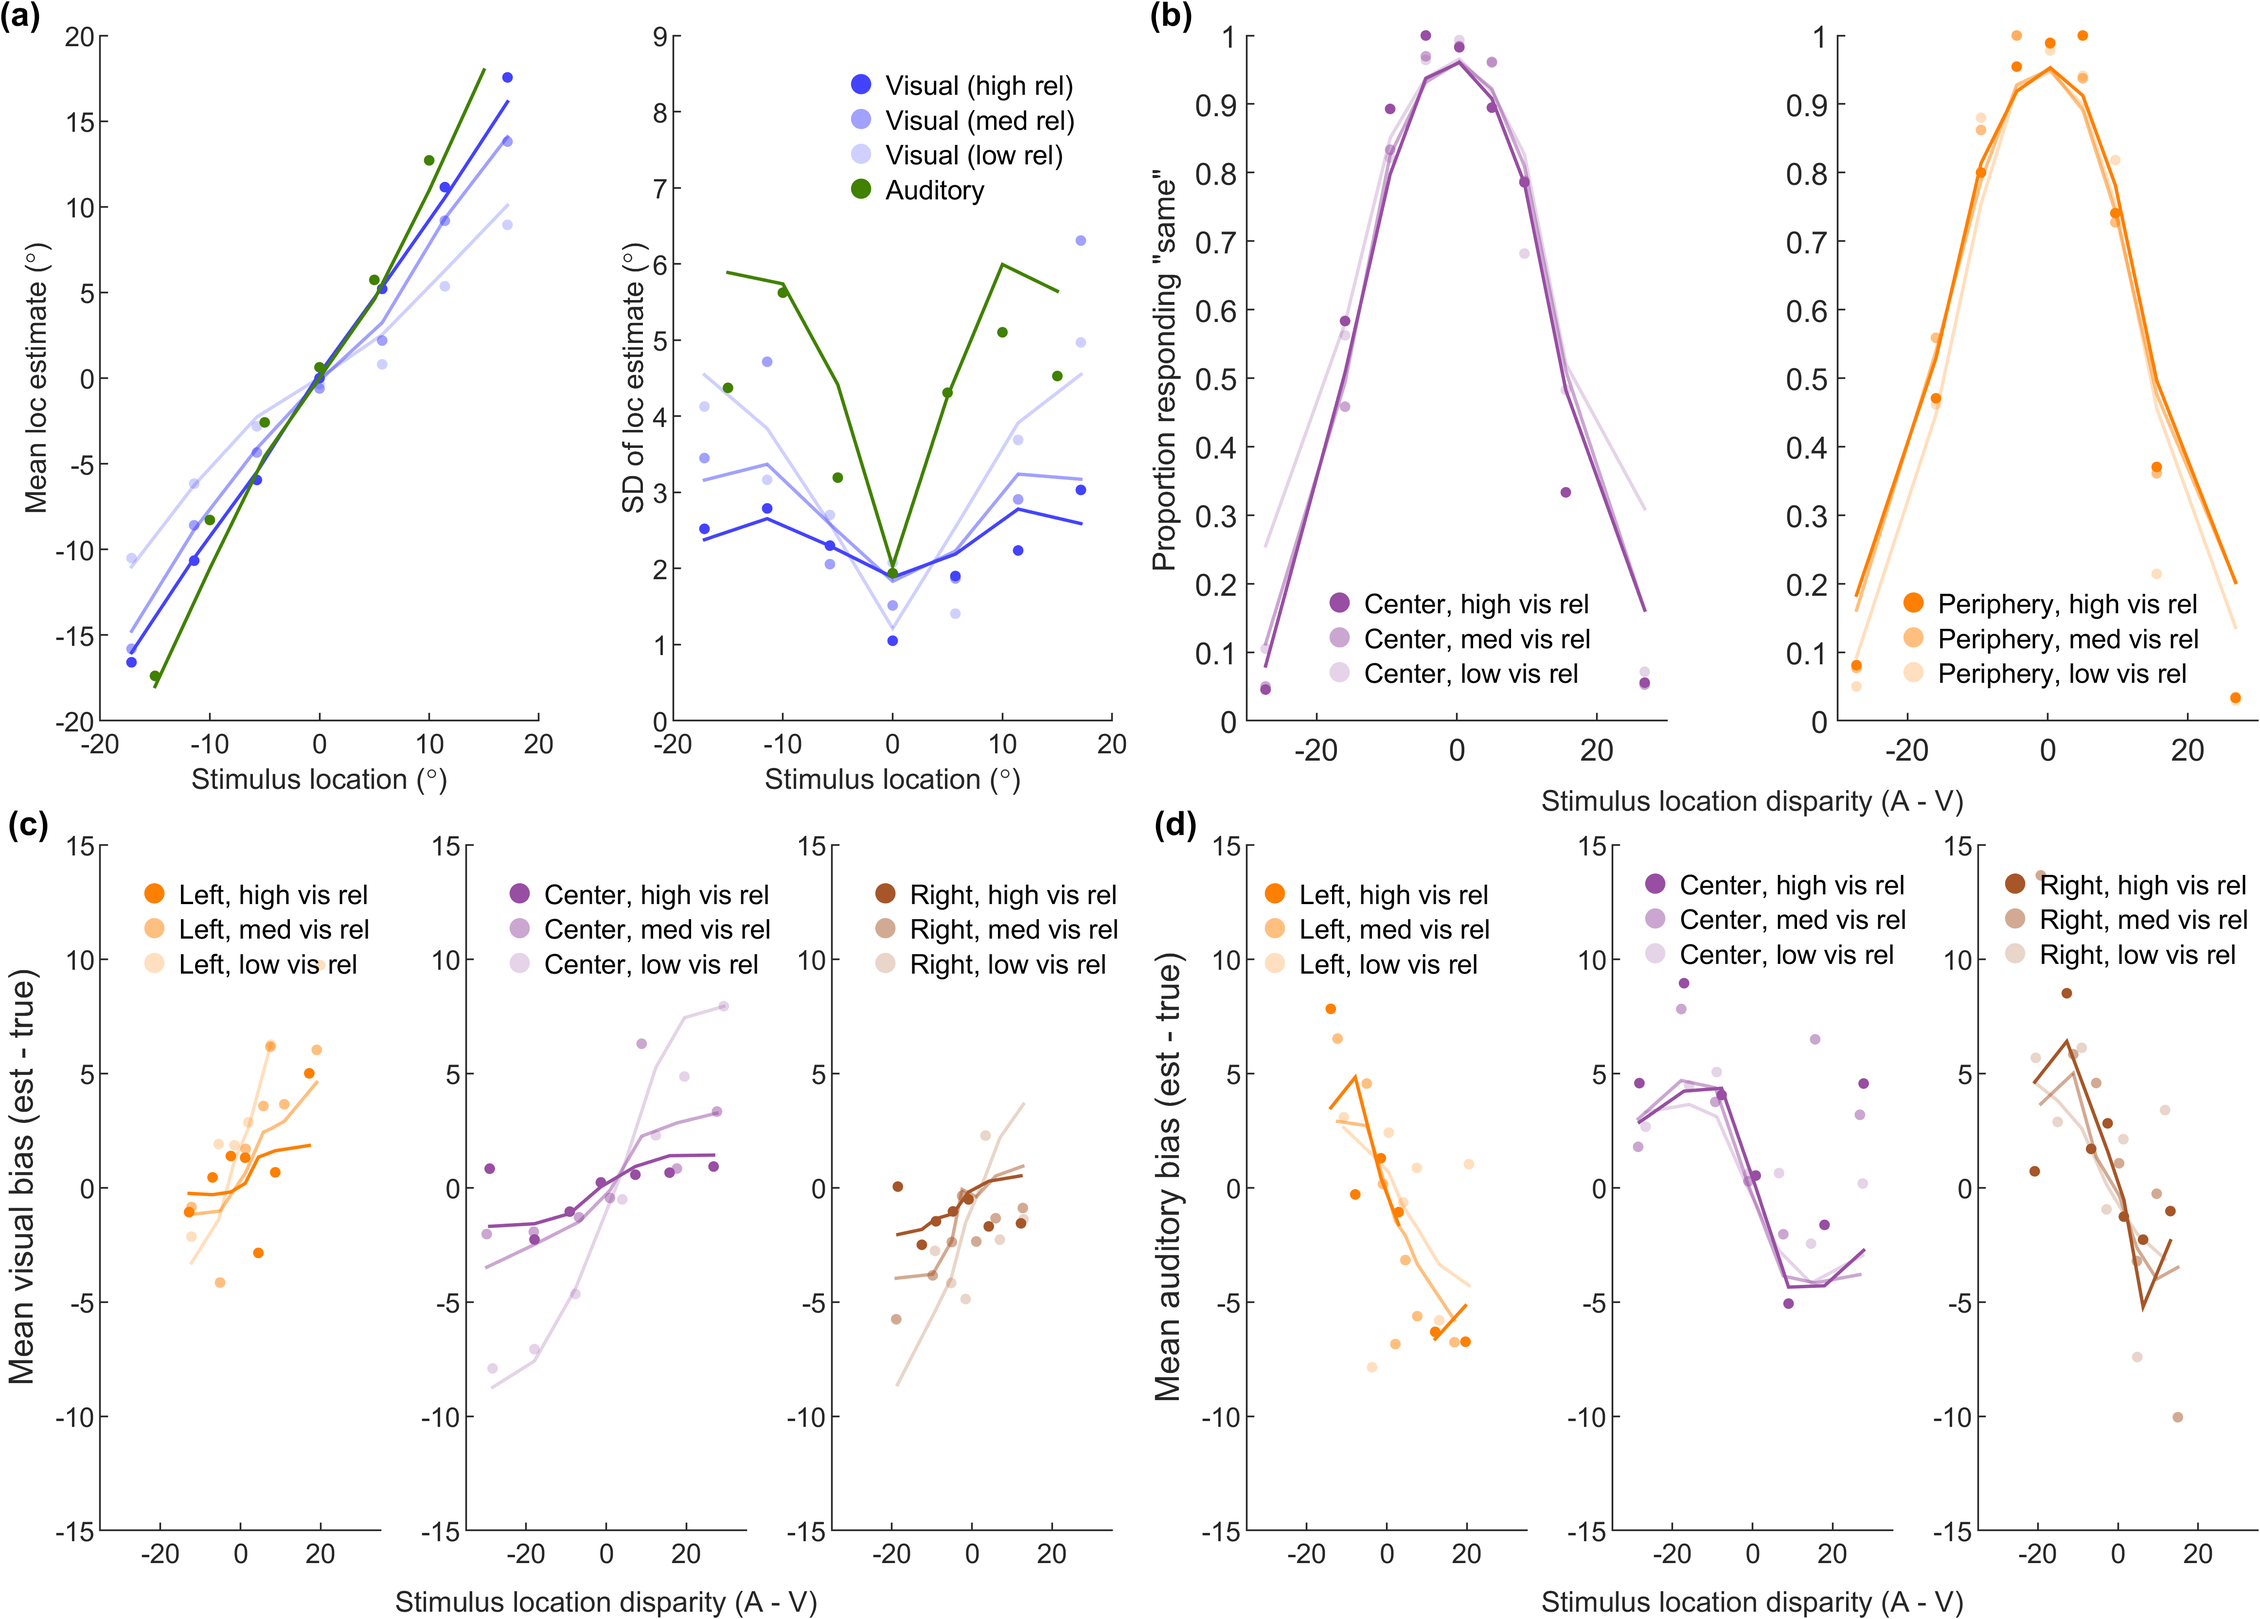
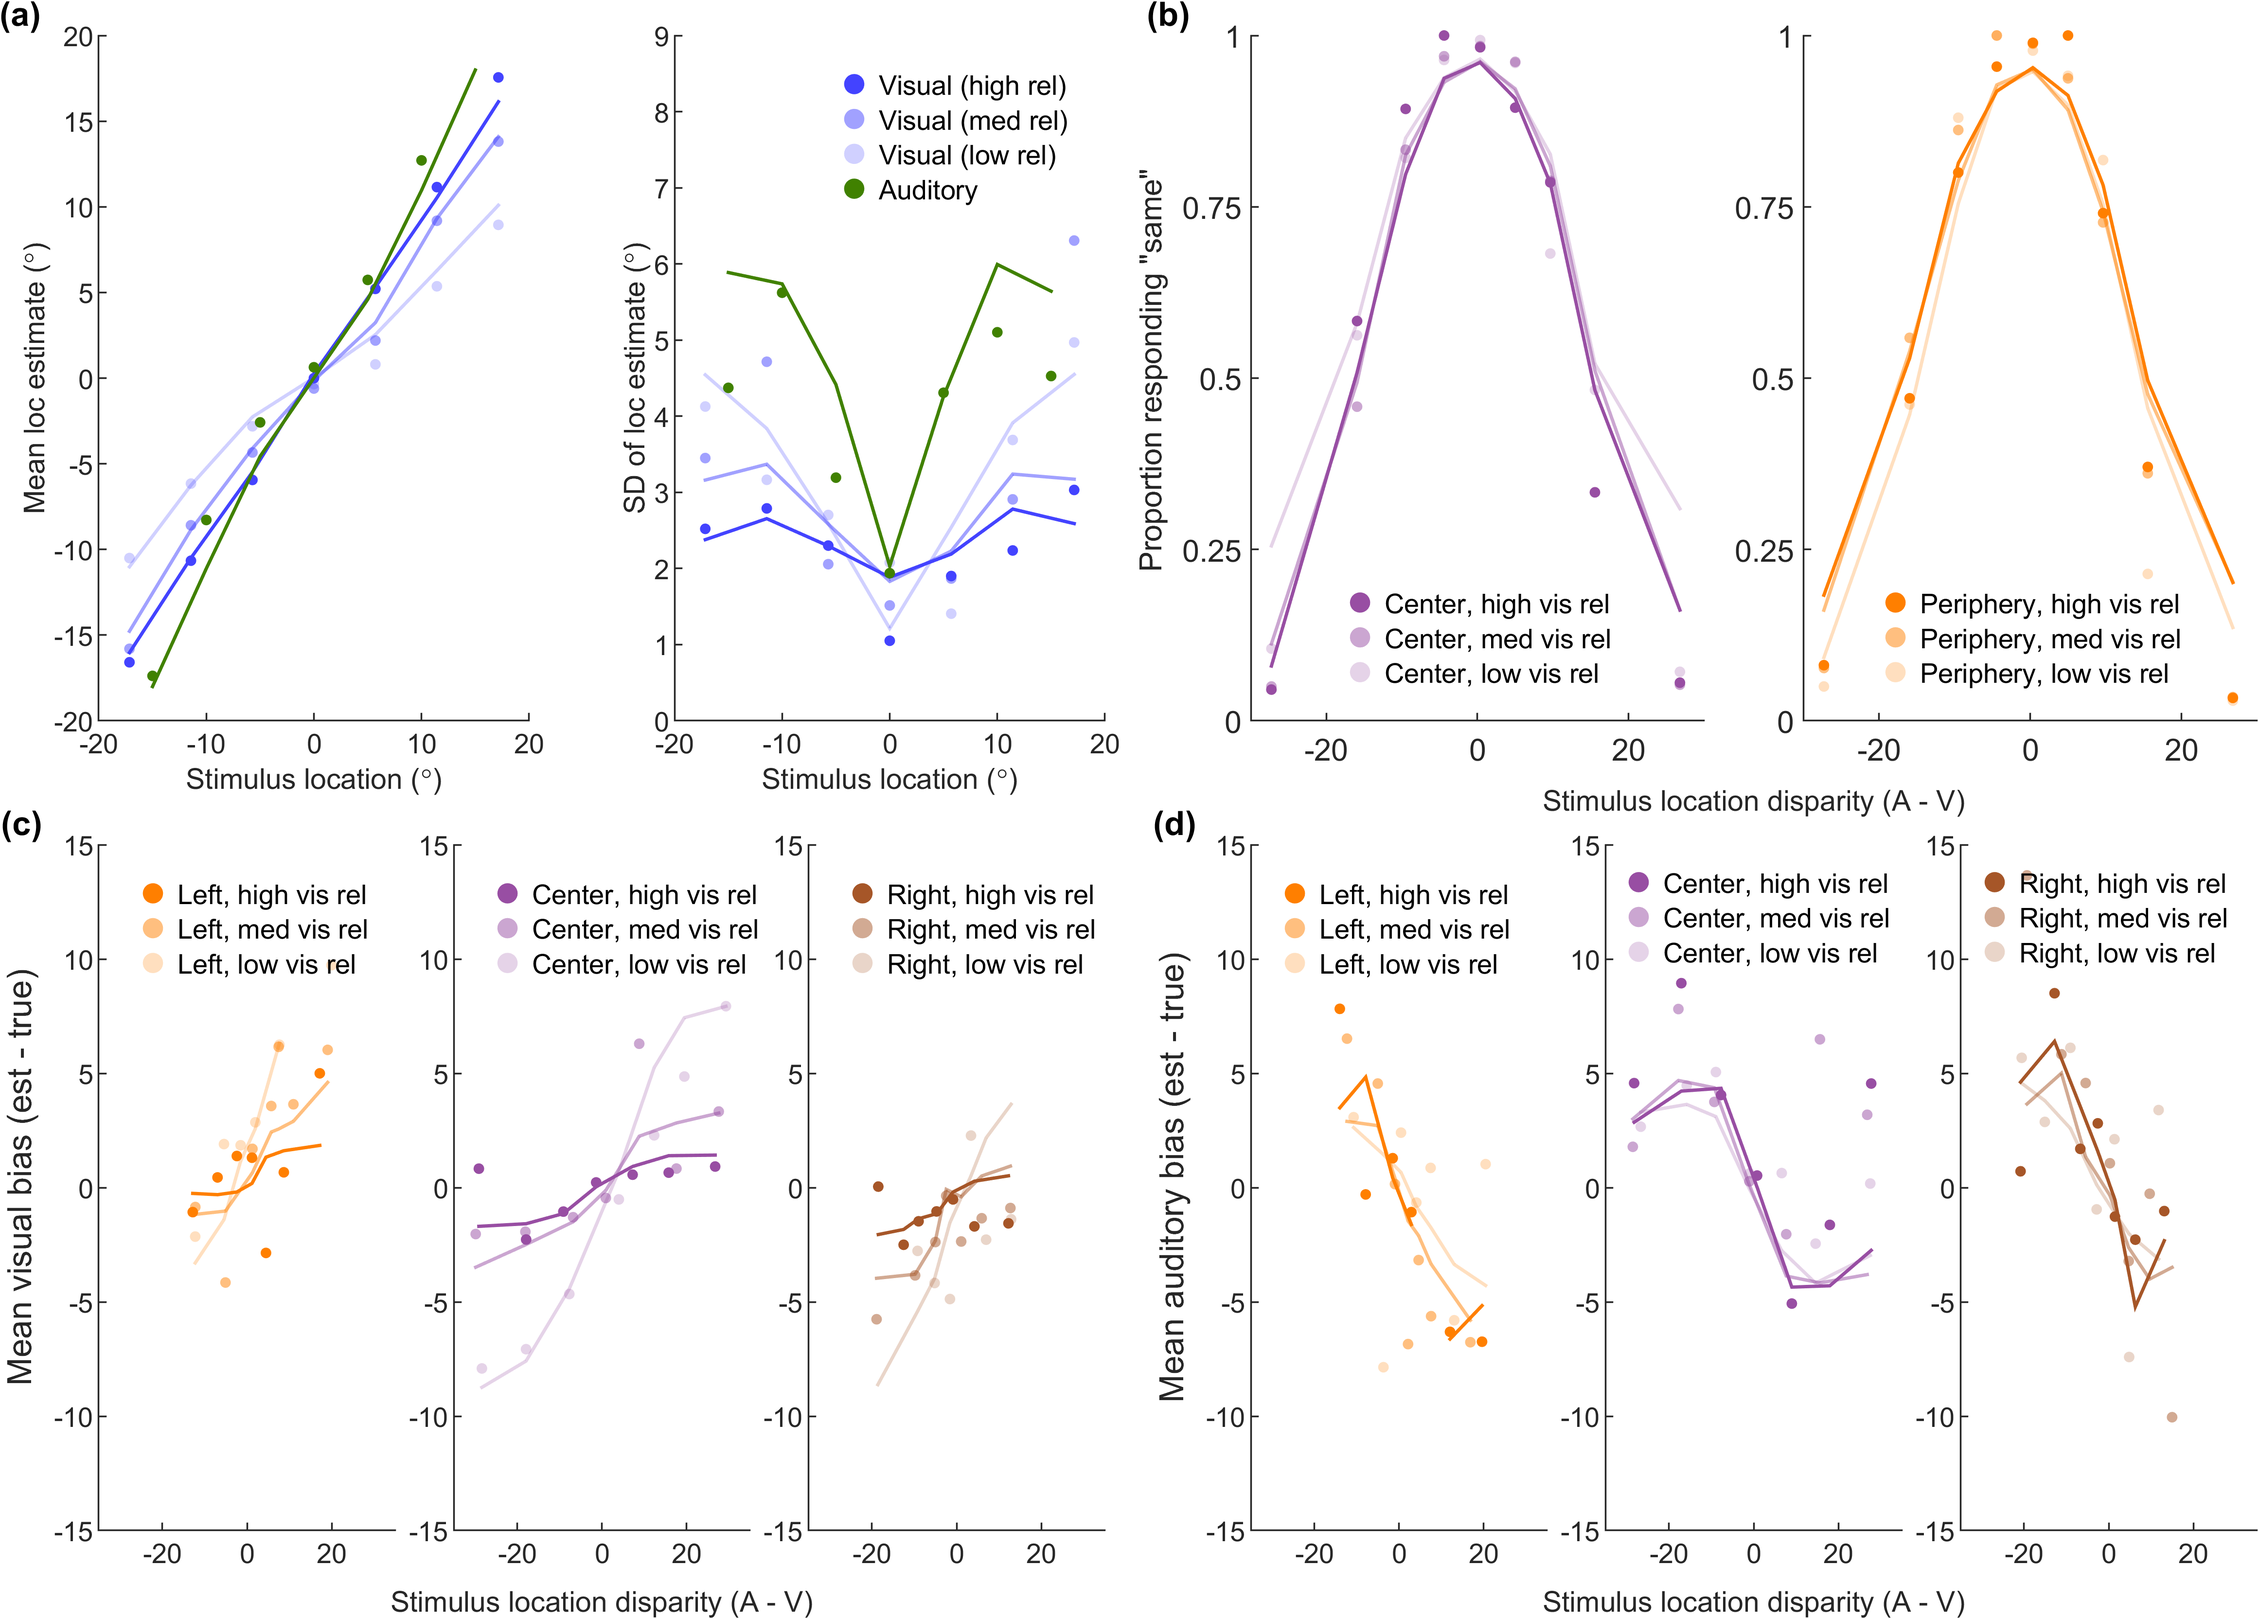
Less tick marks for BC individual plot

diff --git a/analysis/manuscript_allfits_respdistrvisualization_resc.m b/analysis/manuscript_allfits_respdistrvisualization_resc.m
@@ -165,35 +165,35 @@ function [] = manuscript_allfits_respdistrvisualization_resc(prior_type, hetero_
 
     model_family = "parametric";
     
-    % %% UV, UA
-    % UV_use_pred_samples = true;
-    % UA_use_pred_samples = true; % can be false
-    % manuscript_unimodalfits_visualization(data_stratified_UV, fitted_params_PM_UV, ModelComponents_UV, true, colors, s_v_range, model_family, plot_lapse, UV_use_pred_samples, fontsize, figspecs, lapse_type, Gaussian_lapse_SDs, plot_individual)
-    % manuscript_unimodalfits_visualization(data_stratified_UA, fitted_params_PM_UA, ModelComponents_UA, false, colors, s_a_range, model_family, plot_lapse, UA_use_pred_samples, fontsize, NaN, lapse_type, Gaussian_lapse_SDs, plot_individual)
-    % if(plot_individual)
-    %     figure(1)
-    %     saveas(gca, figpath+save_name+'-UAV_Individualmean.fig')
-    %     exportgraphics(gcf,figpath+save_name+'-UAV_Individualmean.png','Resolution',png_dpi);
-    %     exportgraphics(gcf,figpath+save_name+'-UAV_Individualmean.pdf',"ContentType","vector");
-    %     figure(2)
-    %     saveas(gca, figpath+save_name+'-UAV_IndividualSD.fig')
-    %     exportgraphics(gcf,figpath+save_name+'-UAV_IndividualSD.png','Resolution',png_dpi);
-    %     exportgraphics(gcf,figpath+save_name+'-UAV_IndividualSD.pdf',"ContentType","vector");
-    % else
-    %     exportgraphics(gcf,figpath+save_name+'-UAV.png','Resolution',png_dpi);
-    %     exportgraphics(gcf,figpath+save_name+'-UAV.pdf',"ContentType","vector");
-    % end
-    % 
-    % %% BC
-    % manuscript_bimodalcfits_visualization_resc(BC_data, fitted_params_PM, ModelComponents_UV, ModelComponents_UA, model_family, plot_lapse, ModelComponents_UV.CausalInfStrategy, fontsize, figspecs, plot_individual)
-    % if(plot_individual)
-    %     saveas(gca, figpath+save_name+'-BC_Individual.fig')
-    %     exportgraphics(gcf,figpath+save_name+'-BC_Individual.png','Resolution',png_dpi);
-    %     exportgraphics(gcf,figpath+save_name+'-BC_Individual.pdf',"ContentType","vector");
-    % else
-    %     exportgraphics(gcf,figpath+save_name+'-BC.png','Resolution',png_dpi);
-    %     exportgraphics(gcf,figpath+save_name+'-BC.pdf',"ContentType","vector");
-    % end
+    %% UV, UA
+    UV_use_pred_samples = true;
+    UA_use_pred_samples = true; % can be false
+    manuscript_unimodalfits_visualization(data_stratified_UV, fitted_params_PM_UV, ModelComponents_UV, true, colors, s_v_range, model_family, plot_lapse, UV_use_pred_samples, fontsize, figspecs, lapse_type, Gaussian_lapse_SDs, plot_individual)
+    manuscript_unimodalfits_visualization(data_stratified_UA, fitted_params_PM_UA, ModelComponents_UA, false, colors, s_a_range, model_family, plot_lapse, UA_use_pred_samples, fontsize, NaN, lapse_type, Gaussian_lapse_SDs, plot_individual)
+    if(plot_individual)
+        figure(1)
+        saveas(gca, figpath+save_name+'-UAV_Individualmean.fig')
+        exportgraphics(gcf,figpath+save_name+'-UAV_Individualmean.png','Resolution',png_dpi);
+        exportgraphics(gcf,figpath+save_name+'-UAV_Individualmean.pdf',"ContentType","vector");
+        figure(2)
+        saveas(gca, figpath+save_name+'-UAV_IndividualSD.fig')
+        exportgraphics(gcf,figpath+save_name+'-UAV_IndividualSD.png','Resolution',png_dpi);
+        exportgraphics(gcf,figpath+save_name+'-UAV_IndividualSD.pdf',"ContentType","vector");
+    else
+        exportgraphics(gcf,figpath+save_name+'-UAV.png','Resolution',png_dpi);
+        exportgraphics(gcf,figpath+save_name+'-UAV.pdf',"ContentType","vector");
+    end
+
+    %% BC
+    manuscript_bimodalcfits_visualization_resc(BC_data, fitted_params_PM, ModelComponents_UV, ModelComponents_UA, model_family, plot_lapse, ModelComponents_UV.CausalInfStrategy, fontsize, figspecs, plot_individual)
+    if(plot_individual)
+        saveas(gca, figpath+save_name+'-BC_Individual.fig')
+        exportgraphics(gcf,figpath+save_name+'-BC_Individual.png','Resolution',png_dpi);
+        exportgraphics(gcf,figpath+save_name+'-BC_Individual.pdf',"ContentType","vector");
+    else
+        exportgraphics(gcf,figpath+save_name+'-BC.png','Resolution',png_dpi);
+        exportgraphics(gcf,figpath+save_name+'-BC.pdf',"ContentType","vector");
+    end
     %% BA, BV
     manuscript_bimodalavfits_visualization_resc(BAV_data, fitted_params_PM, ModelComponents_UV, ModelComponents_UA, PMIntegrationParams, dx_max, model_family, plot_lapse, ModelComponents_UV.CausalInfStrategy, unique_bins_subj, fontsize, figspecs, figpath, save_name, png_dpi, lapse_type, Gaussian_lapse_SDs, plot_individual);
 

diff --git a/manuscript_allplots.m b/manuscript_allplots.m
@@ -1071,7 +1071,7 @@ function [] = allindvsubjplots_to_onesubjplot(save_name, subjidx, fitted_on_all_
         
         % BC
         %t3 = nexttile([1,2]);
-        t3=tiledlayout(T,1,2);
+        t3=tiledlayout(T,1,2, 'Padding','none','TileSpacing','compact');
         t3.Layout.Tile = 7;
         t3.Layout.TileSpan = [1 6];
         xlabel(t3,"Stimulus location disparity (A - V)", 'FontSize',fontsize)
@@ -1098,6 +1098,7 @@ function [] = allindvsubjplots_to_onesubjplot(save_name, subjidx, fitted_on_all_
             end
             xlim([-30,30])
             ylim([0,1])
+            yticks(0:0.25:1)
             
             lg = legend(BC_strat_names(strats)+{", high vis rel",", med vis rel",", low vis rel"});
             set(lg,'Box','off')
@@ -1107,7 +1108,7 @@ function [] = allindvsubjplots_to_onesubjplot(save_name, subjidx, fitted_on_all_
         end
         
         BAV_strat_names = ["Left","Center","Right"];
-        t4=tiledlayout(T,1,3);
+        t4=tiledlayout(T,1,3, 'Padding','none','TileSpacing','compact');
         t4.Layout.Tile = 13;
         t4.Layout.TileSpan = [1 6];
         xlabel(t4, "Stimulus location disparity (A - V)", 'FontSize',fontsize)
@@ -1143,7 +1144,7 @@ function [] = allindvsubjplots_to_onesubjplot(save_name, subjidx, fitted_on_all_
             lg.ItemTokenSize(1) = 10;
         end
         
-        t5=tiledlayout(T,1,3);
+        t5=tiledlayout(T,1,3, 'Padding','none','TileSpacing','compact');
         t5.Layout.Tile = 19;
         t5.Layout.TileSpan = [1 6];
         xlabel(t5, "Stimulus location disparity (A - V)", 'FontSize',fontsize)
@@ -1181,7 +1182,7 @@ function [] = allindvsubjplots_to_onesubjplot(save_name, subjidx, fitted_on_all_
                 case 2
                     lg.Position(1) = 0.42;
                 case 3
-                    lg.Position(1) = 0.7;
+                    lg.Position(1) = 0.74;
             end
         end
     end
